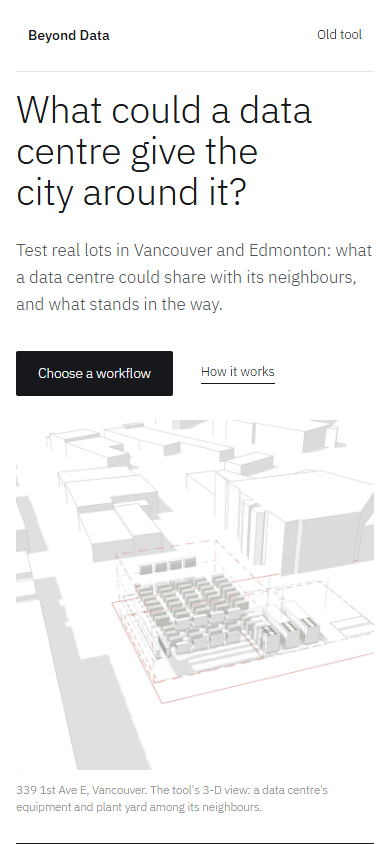
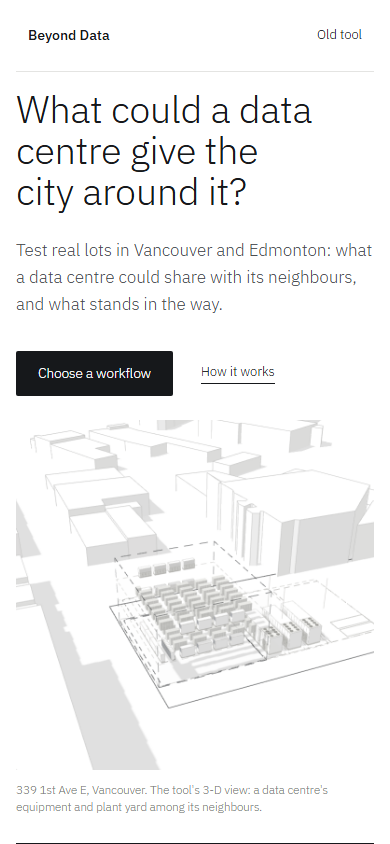
F1 step 1, second gate: the logic view (job sheet §3d), card lists updated (Resident 4, Municipal 12, Engineering 12), landing images with the lot line in INK
How it works opens from the header, See the logic and each card. Display only; golden and Architecture baselines unchanged.

diff --git a/tool/f1.js b/tool/f1.js
@@ -3,8 +3,9 @@
    See the cards opens the template's card sequence on the example lot (Vancouver 339 1st Ave E, 63819485; Edmonton 64 Airport Rd NW, 146402) in the card
    shell of STYLE.md §4, read-only, with Back / Next, a city switch and a strip to jump. Step 1 builds the shell only: the cards' drawings and figures
    are built in steps 2–4, so each card says which step builds it (no figure, no placeholder drawing).
-   Card titles and chapters: Architecture from the Arch_A01–A22 boards (A16 Exits left out, job sheet §3) and WORKLIST's five chapters; Municipal,
-   Engineering and Resident from their storyboards (Story_Municipal, Story_Engineering, Story_Resident, 5 Nov 2026).
+   Card lists: job sheet §3 as updated 7 Nov (Resident 4, Municipal 12, Engineering 12; two cities parked). Chapters: Architecture from WORKLIST (Compare under
+   Visualize, as Story_Architecture has it); the others from their storyboards (Story_Municipal, Story_Engineering, Story_Resident, 5 Nov 2026); Municipal's
+   'Industrial land and jobs' under Process is our reading (question to Cowork). 'How it works' opens the logic view (f1logic.js, §3d).
    Images: the tool's own 3-D view of 339 1st Ave E (checks/tests/f1_capture.js; City of Vancouver open data only). */
 (function(){
 'use strict';
@@ -12,19 +13,18 @@ const BD=window.BD; const esc=s=>String(s==null?'':s).replace(/[&<>"]/g,c=>({'&'
 const LOTS={van:{city:'van',tile:'1_1',id:'63819485',name:'Vancouver'},edm:{city:'edm',tile:'-1_1',id:'146402',name:'Edmonton'}};
 const C=(chap,list)=>list.map(t=>({chap,t}));
 const TPL=[
- {id:'resident',name:'Resident',tier:'resident',step:5,who:'For people who live near a data centre. Plain answers about one facility: noise, heat, water and power.',img:'resident',
-  cards:[...C('Find',['Your city','Pick a data centre']),...C('The facility',['What it is']),...C('Living near it',['Noise','Heat','Water','Power and backup']),...C('How it works',['How it works']),...C('Report',['Report'])]},
- {id:'municipal',name:'Municipal',tier:null,step:3,who:'For planners and councillors. One parcel’s rules, one rule per card, and the two cities side by side.',img:'municipal',
-  cards:[...C('Site',['Your city','Your parcel']),...C('Use',['Is a data centre allowed?']),...C('Building rules',['Height and floor area','Yards by edge','Storey heights and ground floor','Loading','Rooftop equipment and screening']),...C('Process',['Approval process','Two cities']),...C('Report',['Report'])]},
- {id:'engineering',name:'Engineering',tier:'full',step:4,who:'For engineers and operators. The equipment, what it could exchange with the city, and three options.',img:'engineering',
-  cards:[...C('Site',['Your city','Your parcel']),...C('Set-up',['Size and cooling','Backup power','What fits']),...C('Exchanges',['Heat','Electricity','Water','Materials']),...C('Options',['Three options','Could become','Two cities']),...C('Report',['Report'])]},
- {id:'architecture',name:'Architecture',tier:'arch',step:2,who:'For architects. A data centre and public programs on one lot, laid out from a library and checked against the main code moves.',img:'architecture',
+ {id:'resident',name:'Resident',tier:'resident',tab:'resident',step:5,who:'For people who live near a data centre. Where data centres are, how one operates with the information there is, and a report on it.',img:'resident',
+  cards:[...C('Find',['Your city','Find a data centre']),...C('The facility',['What it is']),...C('Report',['Report'])]},
+ {id:'municipal',name:'Municipal',tier:null,tab:'municipal',step:3,who:'For planners and councillors. One parcel’s rules, one rule per card: limits, not designs.',img:'municipal',
+  cards:[...C('Site',['Your city','Your parcel']),...C('Use',['Is a data centre allowed?']),...C('Building rules',['Height and floor area','Yards by edge','Noise limits by edge','Storey heights, ground floor and street frontage','Loading','Rooftop equipment and screening']),...C('Process',['Industrial land and jobs','Approval process']),...C('Report',['Report'])]},
+ {id:'engineering',name:'Engineering',tier:'full',tab:'full',step:4,who:'For engineers and operators. The equipment, what it could exchange with the city, and three options.',img:'engineering',
+  cards:[...C('Site',['Your city','Your parcel']),...C('Set-up',['Size and cooling','Backup power','What fits']),...C('Exchanges',['Heat','Electricity','Water','Materials']),...C('Options',['Three options','Could become']),...C('Report',['Report'])]},
+ {id:'architecture',name:'Architecture',tier:'arch',tab:'arch',step:2,who:'For architects. A data centre and public programs on one lot, laid out from a library and checked against the main code moves.',img:'architecture',
   cards:[...C('Site',['Your city','Your parcel','People nearby','Programs nearby','Heat receivers nearby','What the lot allows','Ground and flood','Neighbours and views']),
    ...C('Typology',['Pick a typology','Variant and add-ons','The governing principle','The numbers','What’s left for neighbours']),
    ...C('Checks',['Rooms','Separations','Plant and site']),...C('Visualize',['Heat flow','Program diagram','Drawing styles','Compare']),...C('Report',['Report'])]}];
 TPL.forEach(t=>t.chaps=[...new Set(t.cards.map(c=>c.chap))]);
-const STEPNAME={2:'step 2 (Architecture cards)',3:'step 3 (Municipal cards)',4:'step 3 (Engineering cards)',5:'step 3 (Resident cards)'};
-const LOGIC='https://claude.ai/artifact/1qrPPrLsLqabEsDQriz6SZ'; /* the full tool-logic diagram, as tiers.js links it */
+const STEPNAME={2:'step 2 (Architecture cards)',3:'step 3 (Municipal cards)',4:'step 3 (Engineering cards)',5:'step 3 (Resident cards, after the facility inventory)'};
 
 /* ---------- landing (Final_F_Landing) ---------- */
 function howSvg(){ /* the logic in eight parts (board Final_F_Landing): boxes and curved links, INK lines on white boxes */
@@ -34,20 +34,21 @@ function howSvg(){ /* the logic in eight parts (board Final_F_Landing): boxes an
   return `<svg viewBox="0 0 630 270" role="img" aria-label="How the tool's logic runs: lot and zoning feed size, equipment and neighbours, which feed heat and rules, which feed the report">${E.map(path).join('')}${Object.values(N).map(([x,y,t])=>`<rect x="${x-w/2}" y="${y-h/2}" width="${w}" height="${h}" rx="3" fill="#fff" stroke="#16181B" stroke-width="1"/><text x="${x}" y="${y+4.5}" text-anchor="middle" font-size="12.5" fill="#16181B" font-family="IBM Plex Sans,system-ui,sans-serif">${t}</text>`).join('')}</svg>`; }
 function landing(){ let L=document.getElementById('f1'); if(L) L.remove(); L=document.createElement('div'); L.id='f1';
   L.innerHTML=`<div class="f1-wrap">
-   <header class="f1-head"><a class="f1-app" href="#" data-go="top">Beyond Data</a><nav class="f1-nav" aria-label="Site"><a href="#f1-work">Workflows</a><a href="#f1-how">How it works</a><a href="${LOGIC}" target="_blank" rel="noopener">Sources</a><a href="#" class="f1-old" data-go="old">Old tool</a></nav></header>
+   <header class="f1-head"><a class="f1-app" href="#" data-go="top">Beyond Data</a><nav class="f1-nav" aria-label="Site"><a href="#f1-work">Workflows</a><a href="#" data-go="logic">How it works</a><a href="#" data-go="logic">Sources</a><a href="#" class="f1-old" data-go="old">Old tool</a></nav></header>
    <section class="f1-hero"><div><h1>What could a data centre give the city around it?</h1>
      <p class="f1-lead">Test real lots in Vancouver and Edmonton: what a data centre could share with its neighbours, and what stands in the way.</p>
-     <div class="f1-acts"><button class="f1-btn" data-go="work">Choose a workflow</button><a class="f1-link" href="#f1-how">How it works</a></div></div>
+     <div class="f1-acts"><button class="f1-btn" data-go="work">Choose a workflow</button><button class="f1-link" data-go="logic">How it works</button></div></div>
     <figure class="f1-heroimg"><img src="f1/img/hero.png" alt="339 1st Ave E, Vancouver, in the tool's 3-D view: the data centre's equipment and its yard among the neighbouring buildings"><figcaption class="f1-cap">339 1st Ave E, Vancouver. The tool's 3-D view: a data centre's equipment and plant yard among its neighbours.</figcaption></figure></section>
    <div class="f1-lines"><p>Vancouver and Edmonton, built to the same depth.</p><p>Four workflows, each ending in its own report.</p><p>Every figure has a source, or a “?” where it doesn’t yet.</p><p>Trade-offs, not verdicts. Code limits block; options are flagged.</p></div>
    <section id="f1-work"><div class="f1-sechead"><h2>Workflows</h2><span>Each one shows one idea per card, then makes a report.</span></div>
     ${TPL.map(t=>`<div class="f1-row"><h3>${t.name}</h3><div><p class="who">${esc(t.who)}</p><div class="ract"><button class="f1-btn" data-start="${t.id}"${t.tier?'':' disabled'}>Start</button><button class="f1-link" data-see="${t.id}">See the cards</button></div>${t.tier?'':'<div class="note">Start opens when the Municipal cards are built.</div>'}</div>
       <div class="meta">${t.cards.length} steps<br>report</div><img src="f1/img/${t.img}.png" alt="${t.name}: the tool's 3-D view of 339 1st Ave E, Vancouver" loading="lazy"></div>`).join('')}</section>
-   <section class="f1-how" id="f1-how"><div><h2>How it works</h2><p>One logic runs under all four workflows. Every number in it is tied to a source and a check status, so a reader can follow any figure back to where it came from.</p><a class="f1-link" href="${LOGIC}" target="_blank" rel="noopener">See the logic</a></div>${howSvg()}</section>
+   <section class="f1-how" id="f1-how"><div><h2>How it works</h2><p>One logic runs under all four workflows. Every number in it is tied to a source and a check status, so a reader can follow any figure back to where it came from.</p><button class="f1-link" data-go="logic">See the logic</button></div>${howSvg()}</section>
    <footer class="f1-foot"><span>Beyond Data · ARCH 540, UBC School of Architecture and Landscape Architecture · 2026</span><span>Data: City of Vancouver and City of Edmonton open data. Maker and operator figures are labelled as claims.</span></footer></div>`;
   document.body.appendChild(L);
   L.addEventListener('click',e=>{ const g=e.target.closest('[data-go],[data-start],[data-see]'); if(!g) return;
     if(g.dataset.go==='old'){ e.preventDefault(); L.remove(); return; }
+    if(g.dataset.go==='logic'){ e.preventDefault(); if(BD.f1logic) BD.f1logic.open({tab:'all'}); return; }
     if(g.dataset.go==='work'){ L.querySelector('#f1-work').scrollIntoView({behavior:'smooth'}); return; }
     if(g.dataset.go==='top'){ e.preventDefault(); L.scrollTo({top:0,behavior:'smooth'}); return; }
     if(g.dataset.start){ const t=TPL.find(x=>x.id===g.dataset.start); if(!t||!t.tier) return; /* step 1: the cards are not built, so Start opens the old tool in this template, at its site picker */
@@ -65,7 +66,7 @@ async function loadLot(city){ const S=LOTS[city]; V.where='…'; draw();
 const titleCase=s=>String(s).toLowerCase().replace(/\b([a-z])/g,c=>c.toUpperCase()).replace(/\b(\d+)(St|Nd|Rd|Th)\b/g,(m,n,x)=>n+x.toLowerCase()).replace(/\b(Nw|Ne|Sw|Se)\b/g,m=>m.toUpperCase());
 function viewer(id){ V.t=TPL.find(x=>x.id===id); V.i=0; let W=document.getElementById('f1v'); if(!W){ W=document.createElement('div'); W.id='f1v'; W.setAttribute('role','dialog'); W.setAttribute('aria-modal','true'); document.body.appendChild(W);
     W.addEventListener('click',e=>{ const b=e.target.closest('button'); if(!b) return; const d=b.dataset;
-      if(d.x!=null){ W.remove(); return; } if(d.city){ if(d.city!==V.city){ V.city=d.city; loadLot(V.city); } return; }
+      if(d.x!=null){ W.remove(); return; } if(d.how){ const c=V.t.cards[V.i]; if(BD.f1logic) BD.f1logic.open(d.how==='all'?{tab:V.t.tab}:{tab:V.t.tab,label:c.t,ids:BD.f1logic.cardIds(c.t)}); return; } if(d.city){ if(d.city!==V.city){ V.city=d.city; loadLot(V.city); } return; }
       if(d.to!=null){ V.i=+d.to; draw(); return; } if(d.chap!=null){ V.i=V.t.cards.findIndex(c=>c.chap===d.chap); draw(); return; }
       if(d.step==='back'&&V.i>0){ V.i--; draw(); } if(d.step==='next'&&V.i<V.t.cards.length-1){ V.i++; draw(); } });
     document.addEventListener('keydown',e=>{ if(!document.getElementById('f1v')) return; if(e.key==='Escape') document.getElementById('f1v').remove(); if(e.key==='ArrowRight'&&V.i<V.t.cards.length-1){ V.i++; draw(); } if(e.key==='ArrowLeft'&&V.i>0){ V.i--; draw(); } }); }
@@ -75,14 +76,14 @@ function draw(){ const W=document.getElementById('f1v'); if(!W||!V.t) return; co
      <nav class="f1v-chap" aria-label="Chapters">${t.chaps.map((h,k)=>`<button data-chap="${esc(h)}" class="${k<ci?'past':k===ci?'now':''}"${k===ci?' aria-current="step"':''}>${esc(h)}</button>`).join('')}</nav>
      <span class="f1v-where">${esc(V.where)}</span>
      <div class="f1v-city" role="group" aria-label="Example lot">${Object.values(LOTS).map(l=>`<button data-city="${l.city}" aria-pressed="${l.city===V.city}">${l.name}</button>`).join('')}</div>
-     <button class="f1v-x" data-x aria-label="Close the cards">Close</button></header>
+     <button class="f1v-how" data-how="all">How it works</button><button class="f1v-x" data-x aria-label="Close the cards">Close</button></header>
    <div class="f1v-body"><main class="f1v-main"><div class="f1v-chips"><span class="f1v-chip">Preview · not built yet</span></div>
      <div class="f1v-draw"><p class="f1v-empty">This card’s drawing and figures are built in ${STEPNAME[t.step]} of the site build. It will read the example lot above and what the cards before it chose.</p></div>
-     <details class="f1v-src"><summary>Sources and assumptions</summary><p>Nothing on this card yet. Every figure will come from the tool, with its source here, or show as a red “?”.</p></details></main>
+     <button class="f1v-how" data-how="card">How this is worked out</button><details class="f1v-src"><summary>Sources and assumptions</summary><p>Nothing on this card yet. Every figure will come from the tool, with its source here, or show as a red “?”.</p></details></main>
     <aside class="f1v-panel"><div class="chap">${esc(c.chap)}</div><h2>${esc(c.t)}</h2><p class="lead">${t.name} · card ${V.i+1} of ${n}.</p><div class="grow"></div>
      <div class="f1v-nav"><button class="f1v-back" data-step="back"${V.i?'':' disabled'}>Back</button><button class="f1-btn" data-step="next"${V.i<n-1?'':' disabled'}>${V.i<n-1?'Next':'Last card'}</button></div><div class="f1v-no">${V.i+1} / ${n}</div></aside></div>
    <nav class="f1v-strip" aria-label="All cards">${t.cards.map((x,k)=>`<button data-to="${k}"${k===V.i?' aria-current="true"':''}><span class="n">${k+1}</span><span>${esc(x.t)}</span></button>`).join('')}</nav>`;
-  const cur=W.querySelector('.f1v-strip [aria-current="true"]'); if(cur) cur.scrollIntoView({block:'nearest',inline:'nearest'}); }
+  const cur=W.querySelector('.f1v-strip [aria-current="true"]'), sp=W.querySelector('.f1v-strip'); if(cur&&sp) sp.scrollLeft=Math.max(0,cur.offsetLeft-sp.clientWidth/2+cur.offsetWidth/2); } /* the strip scrolls to the card; the page does not move */
 
 /* first screen: the landing page, unless a parcel link was opened, ?old is in the address, or a script asked to skip it (f1_capture.js) */
 function boot(){ if(!BD||!BD.S||!BD.select) return setTimeout(boot,200); let skip=false; try{ skip=localStorage.getItem('bd-f1-skip')==='1'; }catch(e){}

diff --git a/tool/f1logic.js b/tool/f1logic.js
@@ -1,0 +1,72 @@
+/* Beyond Data — How it works: the logic view (CODE_JOB_F1_site_build.md §3d, J.B. 7 Nov 2026). Display only: reads logic.json (218 parts, wires, stages)
+   and opps.json (source texts, kinds); changes no part, value or register entry. Restyled to STYLE.md: stages as columns, parts as white boxes,
+   today's accent colours kept for what is lit (#CC746C) and for links (#B5544B), the selected part with a 1.8 px INK border, the rest FAINT.
+   A gap (trust 0 or not rated) is a dashed border and "?", not a colour. Template switch: Resident · Municipal · Engineering · Architecture · All,
+   filtered by each part's template tag as logic.js does. logic.json has no Municipal tag: the Municipal view shows the parts the Municipal cards read
+   (MUNI below, our list for Cowork to confirm), labelled as such. */
+(function(){
+'use strict';
+const BD=window.BD; const esc=s=>String(s==null?'':s).replace(/[&<>"]/g,c=>({'&':'&amp;','<':'&lt;','>':'&gt;','"':'&quot;'}[c]));
+const RANK={resident:0,arch:1,full:2,arch_only:9};
+const TABS=[['resident','Resident'],['municipal','Municipal'],['full','Engineering'],['arch','Architecture'],['all','All']];
+/* Municipal: no tag in logic.json (gap). The parts its cards read, by card (our reading, to confirm): parcel and zone (city, parcel), zoning status (allowed),
+   envelope and floor area (height and floor area, storey heights), lot lines and yards are inside 'parcel'/'envelope', noise limit (noise by edge),
+   loading inside component_space (loading), plant on the roof (rooftop) */
+const MUNI=['parcel','zone','zoning_status','rezoning_price','envelope','floor_area','noise_limit','component_space','visibility','standoff'];
+/* parts lit by a card ("How this is worked out"), from logic.js's step lists where a card matches a step; the other cards light nothing yet */
+const CARD={ 'Size and cooling':'setup','Backup power':'setup','What fits':'fits','Heat':'heat','Electricity':'energy','Water':'water','Materials':'materials','Three options':'opts','Could become':'opps','Heat receivers nearby':'heat','People nearby':'social','Neighbours and views':'social' };
+const WORD=[[100,'arithmetic'],[90,'regulation, tariff or standard read directly'],[80,'government dataset'],[70,'peer-reviewed coefficient from another context'],[60,'derived with a stated assumption'],[50,'operator or industry claim'],[40,'proxy'],[20,'judged'],[0,'gap']]; /* CLAUDE.md §3 */
+const word=q=>{ if(q==null) return 'not rated'; for(const [v,w] of WORD) if(q>=v) return w; return 'gap'; };
+let L=null, O=null, UP={}, ORDER={}; const S={tab:'full',sel:null,lit:[],label:''};
+const load=async()=>{ if(!L){ L=await fetch('logic.json').then(r=>r.json()); Object.keys(L.nodes).forEach((k,i)=>ORDER[k]=i); for(const [a,b] of L.edges) (UP[b]=UP[b]||[]).push(a); }
+  if(!O) O=await fetch('opps.json').then(r=>r.json()).catch(()=>({sources:{},source_kinds:{}})); };
+const shown=k=>{ const t=L.nodes[k].t; if(S.tab==='all') return true; if(S.tab==='municipal') return MUNI.includes(k); if(t==='arch_only') return S.tab==='arch'; return RANK[t]<=RANK[S.tab]; };
+function ancestors(ids){ const s=new Set(), st=[...ids]; while(st.length){ const x=st.pop(); if(s.has(x)) continue; s.add(x); (UP[x]||[]).forEach(p=>st.push(p)); } return s; }
+function visParents(id,V){ const out=new Set(), seen=new Set(), st=[...(UP[id]||[])]; while(st.length){ const x=st.pop(); if(seen.has(x)) continue; seen.add(x); if(V.has(x)) out.add(x); else (UP[x]||[]).forEach(p=>st.push(p)); } return out; }
+const wrap=(t,n)=>{ const w=String(t).split(/\s+/), out=['']; for(const x of w){ const c=out[out.length-1]; if((c+' '+x).trim().length>n&&c){ if(out.length===2){ out[1]=(out[1]+' '+x).trim(); continue; } out.push(x); } else out[out.length-1]=(c+' '+x).trim(); }
+  if(out[1]&&out[1].length>n) out[1]=out[1].slice(0,n-1).trimEnd()+'…'; return out; };
+function diagram(){ const keys=Object.keys(L.nodes).filter(shown).sort((a,b)=>ORDER[a]-ORDER[b]), V=new Set(keys);
+  const focus=S.sel?[S.sel]:S.lit.filter(k=>V.has(k)), A=focus.length?ancestors(focus):new Set();
+  const st=L.stages.map(s=>s[0]), cols={}; st.forEach(s=>cols[s]=[]); keys.forEach(k=>(cols[L.nodes[k].s]||(cols[L.nodes[k].s]=[])).push(k));
+  const bw=150, bh=36, gy=8, cw=184, top=52, P={}; let H=0;
+  st.forEach((s,i)=>(cols[s]||[]).forEach((k,j)=>{ P[k]=[16+i*cw, top+j*(bh+gy)]; H=Math.max(H,top+(j+1)*(bh+gy)); }));
+  const W=16+st.length*cw; let ed='', el='';
+  for(const k of keys){ const [x2,y2]=P[k]; for(const q of visParents(k,V)){ const [x1,y1]=P[q], sx=x1+bw, sy=y1+bh/2, ex=x2, ey=y2+bh/2, m=(sx+ex)/2;
+    const d=`M${sx} ${sy}C${m} ${sy} ${m} ${ey} ${ex} ${ey}`; if(A.has(k)&&A.has(q)) el+=`<path d="${d}"/>`; else ed+=`<path d="${d}"/>`; } }
+  const box=k=>{ const n=L.nodes[k], [x,y]=P[k], sel=S.sel===k, lit=A.has(k), gap=n.q==null||n.q===0, ln=wrap(n.n+(gap?' ?':''),20);
+    return `<g class="lp${lit?' lit':''}${sel?' sel':''}${gap?' gap':''}" data-k="${k}" tabindex="0" role="button" aria-label="${esc(n.n)}"><title>${esc(n.n)}</title><rect x="${x}" y="${y}" width="${bw}" height="${bh}" rx="2"/>`+
+      ln.map((t,i)=>`<text x="${x+8}" y="${y+(ln.length===1?bh/2+4.5:14+i*14)}">${esc(t)}</text>`).join('')+'</g>'; };
+  const heads=st.map((s,i)=>`<text class="sh" x="${16+i*cw}" y="20">${esc(L.stages[i][1])}</text><text class="ss" x="${16+i*cw}" y="36">${(cols[s]||[]).length} part${(cols[s]||[]).length===1?'':'s'}</text>`).join('');
+  return {svg:`<svg width="${W}" height="${H+10}" viewBox="0 0 ${W} ${H+10}" role="img" aria-label="The tool's logic: ${keys.length} parts in ${st.length} stages${focus.length?', '+A.size+' lit':''}"><g>${heads}</g><g class="we">${ed}</g><g class="wl">${el}</g>${keys.map(box).join('')}</svg>`,n:keys.length,lit:[...A].filter(k=>V.has(k)).length}; }
+function srcList(ids){ if(!ids||!ids.length) return '<p class="f1l-none">No source listed for this part.</p>';
+  return '<ul class="f1l-src">'+ids.map(id=>{ const t=(O.sources||{})[id]||id, k=(O.source_kinds||{})[id], m=String(t).match(/https?:\/\/\S+$/), tx=String(t).replace(/\s*[—-]\s*https?:\/\/\S+$/,'');
+    return `<li>${k?`<span class="f1l-kind">${esc(k)}</span>`:''}${esc(tx.length>260?tx.slice(0,257)+'…':tx)}${m?` <a href="${esc(m[0])}" target="_blank" rel="noopener">link</a>`:''}</li>`; }).join('')+'</ul>'; }
+function panel(){ if(!S.sel){ const t=TABS.find(x=>x[0]===S.tab)[1];
+    return `<div class="chap">How it works</div><h2>${S.label?esc(S.label):'The logic under every card'}</h2><p class="lead">${S.label?'The parts this card is worked out from are lit. Click a part for its formula, trust and sources.':'One logic runs under all four workflows. Every part has a formula, a source and a trust rating. Click a part to see them.'}</p>`+
+      (S.tab==='municipal'?'<p class="f1l-flag">Municipal has no tag in the logic yet. These are the parts its cards read, our list for Cowork to confirm.</p>':'')+`<p class="f1l-note">${t}: ${diagram().n} parts shown.</p>`; }
+  const k=S.sel, n=L.nodes[k], stg=(L.stages.find(s=>s[0]===n.s)||[])[1]||n.s, q=n.q, ins=(UP[k]||[]).filter(x=>L.nodes[x]);
+  return `<div class="chap">${esc(stg)}</div><h2>${esc(n.n)}</h2>${n.w?`<p class="lead">${esc(n.w.charAt(0).toUpperCase()+n.w.slice(1))}.</p>`:''}
+   <div class="f1l-hero"><div><div class="hv f1l-red">?${n.u?`<span>${esc(n.u)}</span>`:''}</div><div class="hl">On this lot: not in the tool yet</div></div></div>
+   <section><h3>How it is worked out</h3><p class="f1l-f">${esc(n.f||'Read or asked; no formula.')}</p>${ins.length?`<p class="f1l-in">From: ${ins.map(x=>`<button class="f1l-a" data-k="${x}">${esc(L.nodes[x].n)}</button>`).join(', ')}</p>`:''}</section>
+   <section><h3>Trust</h3><div class="f1l-meter"><div class="trk"><div class="bar" style="width:${q==null?0:q}%"></div></div><div class="cap"><span>${q==null?'not rated':q+' of 100'}</span><span>${esc(word(q))}</span></div></div></section>
+   <section><h3>Status</h3><p class="f1l-f">${esc(n.st||'?')}${n.st2?` · ${esc(n.st2)}`:''}</p></section>
+   <section><h3>Sources</h3>${srcList(n.src)}</section>`; }
+function draw(){ const W=document.getElementById('f1l'); if(!W||!L) return; const D=diagram();
+  W.innerHTML=`<header class="f1v-head"><a class="f1-app" href="#" data-close="home">Beyond Data</a><span class="tpl">How it works</span>
+     <div class="f1l-tabs" role="tablist" aria-label="Template">${TABS.map(([id,nm])=>`<button role="tab" data-tab="${id}" aria-selected="${S.tab===id}">${nm}</button>`).join('')}</div>
+     <span class="f1v-where">${S.label?esc(S.label)+' · ':''}${D.lit?D.lit+' of ':''}${D.n} parts</span><button class="f1v-x" data-close>Close</button></header>
+   <div class="f1v-body"><main class="f1v-main"><div class="f1l-box">${D.svg}</div>
+     <div class="f1l-key"><span><i class="k sel"></i>selected</span><span><i class="k lit"></i>feeds the selection</span><span><i class="k gap"></i>gap (?)</span><span><i class="k"></i>the rest</span></div>
+     <details class="f1v-src"><summary>Sources and assumptions</summary><p>Parts, wires, formulas, trust and template tags: tool/logic.json (built from the register by make_templates.py). Source texts and kinds: tool/opps.json. Trust words: CLAUDE.md §3. Display only.</p></details></main>
+    <aside class="f1v-panel">${panel()}</aside></div>`; }
+async function open(o){ o=o||{}; await load(); S.tab=o.tab||S.tab; S.sel=null; S.label=o.label||''; S.lit=(o.ids||[]).filter(k=>L.nodes[k]);
+  let W=document.getElementById('f1l'); if(!W){ W=document.createElement('div'); W.id='f1l'; W.setAttribute('role','dialog'); W.setAttribute('aria-modal','true'); document.body.appendChild(W);
+    W.addEventListener('click',e=>{ const t=e.target.closest('[data-k],[data-tab],[data-close]'); if(!t) return; e.preventDefault();
+      if(t.dataset.close!=null){ W.remove(); return; } if(t.dataset.tab){ S.tab=t.dataset.tab; if(S.sel&&!shown(S.sel)) S.sel=null; draw(); return; }
+      if(t.dataset.k){ S.sel=S.sel===t.dataset.k?null:t.dataset.k; draw(); } });
+    W.addEventListener('keydown',e=>{ if(e.key==='Escape') W.remove(); const g=e.target.closest&&e.target.closest('g[data-k]'); if(g&&(e.key==='Enter'||e.key===' ')){ e.preventDefault(); S.sel=g.dataset.k; draw(); } }); }
+  draw(); }
+/* the parts a card lights: logic.js's step list for the matching step */
+function cardIds(title){ const k=CARD[title]; return k&&BD.logic&&BD.logic.stepNodes?BD.logic.stepNodes(k):[]; }
+BD.f1logic={open,cardIds,MUNI};
+})();

diff --git a/tool/f1.css b/tool/f1.css
@@ -105,7 +105,63 @@
   .f1v-head{flex-wrap:wrap;height:auto;padding:10px 16px;gap:10px 16px}
   .f1v-head .f1v-chap{order:5;flex-basis:100%}
   .f1v-body{flex-direction:column}
-  .f1v-main{padding:16px}
+  .f1v-main{padding:16px;flex:0 0 auto;overflow:visible}
+  .f1v-body{flex:0 0 auto}
   .f1v-panel{flex:0 0 auto;border-left:0;border-top:1px solid var(--f-hair);padding:22px 16px}
   .f1v-strip{padding:10px 16px}
 }
+/* ---------- How it works: the logic view (job sheet §3d) ---------- */
+#f1l{position:fixed;inset:0;z-index:2100;background:var(--f-bg);color:var(--f-ink);font-family:var(--f-font);font-variant-numeric:tabular-nums;font-size:var(--f-t-body);line-height:1.45;display:flex;flex-direction:column}
+#f1l *{box-sizing:border-box}
+#f1l button{font-family:inherit;cursor:pointer}
+#f1l a{color:#B5544B}
+.f1l-tabs{display:flex;gap:6px;flex:1 1 auto;min-width:0;overflow-x:auto}
+.f1l-tabs button{background:none;border:1px solid var(--f-rule);border-radius:999px;padding:6px 12px;font-size:12.5px;color:var(--f-ink2);white-space:nowrap}
+.f1l-tabs button[aria-selected="true"]{background:var(--f-ink);border-color:var(--f-ink);color:#fff}
+.f1l-box{flex:1 1 auto;overflow:auto;border:1px solid var(--f-hair);min-height:0}
+.f1l-box svg{display:block}
+.f1l-box .sh{font-size:12px;fill:var(--f-ink2)}
+.f1l-box .ss{font-size:11px;fill:var(--f-mute)}
+.f1l-box .we path{fill:none;stroke:var(--f-hair);stroke-width:1}
+.f1l-box .wl path{fill:none;stroke:#CC746C;stroke-width:1.2}
+.f1l-box .lp{cursor:pointer;outline:none}
+.f1l-box .lp rect{fill:#fff;stroke:var(--f-rule);stroke-width:1}
+.f1l-box .lp text{font-size:13px;fill:var(--f-faint)}
+.f1l-box .lp.lit rect{stroke:#CC746C}
+.f1l-box .lp.lit text{fill:var(--f-ink)}
+.f1l-box .lp.gap rect{stroke-dasharray:4 3}
+.f1l-box .lp.sel rect{stroke:var(--f-ink);stroke-width:1.8}
+.f1l-box .lp.sel text{fill:var(--f-ink)}
+.f1l-box .lp:hover text,.f1l-box .lp:focus text{fill:var(--f-ink)}
+.f1l-box .lp:focus rect{stroke:var(--f-ink)}
+#f1l:not(:has(.lp.lit)) .f1l-box .lp text{fill:var(--f-ink)}
+.f1l-key{display:flex;gap:22px;font-size:12px;color:var(--f-mute);flex-wrap:wrap}
+.f1l-key .k{display:inline-block;width:18px;height:12px;border:1px solid var(--f-rule);border-radius:2px;margin-right:7px;vertical-align:-2px;background:#fff}
+.f1l-key .k.sel{border:1.8px solid var(--f-ink)}
+.f1l-key .k.lit{border-color:#CC746C}
+.f1l-key .k.gap{border-style:dashed;border-color:var(--f-mute)}
+#f1l .f1v-panel h3{font-size:12px;font-weight:400;color:var(--f-mute);margin:0 0 6px}
+#f1l .f1v-panel section{border-top:1px solid var(--f-hair);padding-top:12px}
+.f1l-hero{border-top:1px solid var(--f-rule);padding-top:14px}
+.f1l-hero .hv{font-size:30px;font-weight:300;line-height:1.1}
+.f1l-hero .hv span{font-size:14px;color:var(--f-mute);margin-left:6px}
+.f1l-hero .hl{font-size:11.5px;color:var(--f-mute);margin-top:4px}
+.f1l-red{color:var(--f-red)}
+.f1l-f{margin:0;font-size:13px;color:var(--f-ink2);line-height:1.55;overflow-wrap:anywhere}
+.f1l-in{margin:8px 0 0;font-size:13px;color:var(--f-ink2)}
+.f1l-a{background:none;border:0;padding:0;font-size:13px;color:#B5544B;text-decoration:underline;text-underline-offset:2px}
+.f1l-meter .trk{height:4px;background:var(--f-hair);border-radius:2px;width:100%;max-width:328px}
+.f1l-meter .bar{height:4px;background:var(--f-ink);border-radius:2px}
+.f1l-meter .cap{display:flex;justify-content:space-between;max-width:328px;font-size:11.5px;color:var(--f-mute);margin-top:6px;gap:12px}
+.f1l-src{margin:0;padding:0;list-style:none;font-size:12px;color:var(--f-ink2);line-height:1.5}
+.f1l-src li{padding:6px 0;border-bottom:1px solid var(--f-hair);overflow-wrap:anywhere}
+.f1l-kind{display:inline-block;font-size:11px;color:var(--f-ink2);border:1px solid var(--f-rule);border-radius:999px;padding:0 7px;margin-right:6px}
+.f1l-none,.f1l-note{font-size:12px;color:var(--f-mute);margin:0}
+.f1l-flag{font-size:12.5px;color:var(--f-ink2);margin:0;border-left:2px solid #CC746C;padding-left:10px}
+.f1v-how{background:none;border:0;padding:0;font-size:12px;color:var(--f-ink2);text-decoration:underline;text-underline-offset:2px;text-decoration-color:var(--f-rule)}
+@media (max-width:760px){
+  #f1l{overflow-y:auto}
+  #f1l .f1v-body{flex-direction:column}
+  .f1l-box{flex:0 0 auto;height:60vh}
+}
+#f1l .f1-app{color:var(--f-ink);text-decoration:none}

diff --git a/checks/tests/f1_gate.js b/checks/tests/f1_gate.js
@@ -25,10 +25,19 @@ const { chromium } = require('playwright');
       for (const city of (tag === '1440' ? ['van', 'edm'] : ['van'])) {
         if (city === 'edm') { await p.click('#f1v [data-city="edm"]'); await p.waitForTimeout(4000); }
         const idx = tag === '390' ? [0] : all ? t.cards.map((_, k) => k) : t.cards.map((c, k) => k).filter(k => k === 0 || t.cards[k] !== t.cards[k - 1]);
-        for (const k of idx) { await p.click(`#f1v [data-to="${k}"]`); await p.waitForTimeout(150); await textCheck(p, `${t.id} ${city} card ${k + 1} ${tag}`);
+        for (const k of idx) { await p.click(`#f1v [data-to="${k}"]`); await p.evaluate(() => { document.getElementById('f1v').scrollTop = 0; }); await p.waitForTimeout(150); await textCheck(p, `${t.id} ${city} card ${k + 1} ${tag}`);
           await p.screenshot({ path: path.join(out, `${t.id}_${city}_${String(k + 1).padStart(2, '0')}_${tag}.png`) }); shots++; }
         if (city === 'edm') { await p.click('#f1v [data-city="van"]'); await p.waitForTimeout(3000); } }
       await p.click('#f1v [data-x]'); await p.waitForTimeout(300); }
+    /* the logic view (§3d): each template tab with one part selected, then a card's parts lit (Engineering, Heat), and the plain view */
+    const LV = [['resident', 'zoning_status'], ['municipal', 'zoning_status'], ['full', 'heat_delivered'], ['arch', 'envelope'], ['all', null]];
+    for (const [tab, part] of (tag === '1440' ? LV : [['full', 'heat_delivered']])) {
+      await p.evaluate(tab => BD.f1logic.open({ tab }), tab); await p.waitForTimeout(800);
+      if (part) { await p.click(`#f1l g[data-k="${part}"]`); await p.waitForTimeout(300); }
+      const lt = await p.evaluate(() => document.getElementById('f1l').innerText); if (/NaN|undefined/.test(lt)) bad.push(`logic ${tab} ${tag}: NaN or undefined`);
+      await p.screenshot({ path: path.join(out, `logic_${tab}${part ? '_' + part : ''}_${tag}.png`) }); shots++; await p.click('#f1l [data-close]'); await p.waitForTimeout(200); }
+    if (tag === '1440') { await p.evaluate(() => BD.f1.viewer('engineering')); await p.waitForTimeout(2500); await p.click('#f1v [data-to="5"]'); await p.click('#f1v [data-how="card"]'); await p.waitForTimeout(900);
+      await p.screenshot({ path: path.join(out, 'logic_card_engineering_heat_1440.png') }); shots++; await p.click('#f1l [data-close]'); await p.click('#f1v [data-x]'); }
     if (p.errs.length) bad.push(`${tag}: ` + p.errs.slice(0, 5).join(' | ')); if (p.known.size) console.log(tag, 'known:', [...p.known].join('; '));
     await p.close(); }
   await b.close(); console.log('screenshots', shots, '·', bad.length ? 'PROBLEMS\n' + bad.join('\n') : 'no page errors, no console errors, no NaN or undefined');

diff --git a/checks/tests/f1_capture.js b/checks/tests/f1_capture.js
@@ -27,6 +27,12 @@ const PAN = { hero: 30, engineering: 30, resident: 30, municipal: 10, architectu
     /* framing: the camera pans sideways so the lot sits in the middle of the 3-D panel (view only; nothing in the model moves) */
     await p.evaluate(k => { const R = BD.scene3d.rig(); if (!R || !R.cam || !R.ctl) return; const T = window.THREE, right = new T.Vector3(); R.cam.getWorldDirection(right); right.cross(R.cam.up).normalize();
       const d = right.multiplyScalar(-k); R.cam.position.add(d); R.ctl.target.add(d); R.ctl.update(); }, PAN[file] || 0);
+    /* STYLE.md: red only for findings (J.B. gate 1). The tool draws the lot line and the building outline in its accent red; for these images every line or
+       surface in that red is drawn in INK instead (the copy in this page only; the tool's colours are unchanged) */
+    const n = await p.evaluate(() => { const R = BD.scene3d.rig(), T = window.THREE, red = new T.Color('#CC746C'), ink = new T.Color('#16181B'); let k = 0; if (!R || !R.scene) return -1;
+      R.scene.traverse(o => { const ms = o.material ? (Array.isArray(o.material) ? o.material : [o.material]) : []; for (const m of ms) { if (!m || !m.color) continue; const c = m.color;
+        if (Math.abs(c.r - red.r) + Math.abs(c.g - red.g) + Math.abs(c.b - red.b) < 0.12) { c.copy(ink); m.needsUpdate = true; k++; } } }); if (R.ren) R.ren.render(R.scene, R.cam); return k; });
+    console.log(file, 'recoloured', n);
     await p.waitForTimeout(1500);
     const el = await p.$('#v3d') || await p.$('#map');
     await el.screenshot({ path: path.join(out, file + '.png') }); console.log(file, 'errors', errs.length, errs.slice(0, 2).join(' | '));

diff --git a/tool/index.html b/tool/index.html
@@ -838,4 +838,5 @@ window.BD={S,$,esc,fmt,getJSON,pathOf,draw,centroid,pip,area,statusOf,lowD,loadT
 <script src="sheet.js"></script>
 <script src="report3.js"></script>
 <script src="restyle.js"></script>
+<script src="f1logic.js"></script>
 <script src="f1.js"></script>

diff --git a/checks/to_cowork.md b/checks/to_cowork.md
@@ -75,3 +75,14 @@ Questions:
 5. Architecture: Compare in Visualize (storyboard), Report alone, Checks has 3 cards.
 6. The Downloads copy adds §3b. Which sheet governs step 3?
 
+## 7 Nov 2026 — Job F1 step 1, second gate: logic view and gate-1 fixes (Code)
+
+Done: the logic view (§3d) opens from "How it works" and "Sources" in the header, "See the logic", and "How this is worked out" on every card. Card lists are now Resident 4, Municipal 12, Engineering 12. The landing images draw the lot line and outline in INK, not red. Screenshots: checks/f1/ (49). No page or console errors; golden and Architecture results unchanged.
+
+Older Municipal flow: none in the tool code. tiers.js and templates.json say "Municipal not built yet". The nearest was the Community template (tier `community`), removed in a38224a (4 Nov). Research: checks/research_arch_v1/municipal.md.
+
+Questions:
+1. Municipal has no tag in logic.json. Parts the Municipal view shows (please confirm): parcel, zone, zoning_status, rezoning_price, envelope, floor_area, noise_limit, component_space, visibility, standoff.
+2. No part has a value per lot in the tool, so "on this lot" shows a red "?" everywhere.
+3. Industrial land and jobs: I put it under Process. Right chapter?
+
